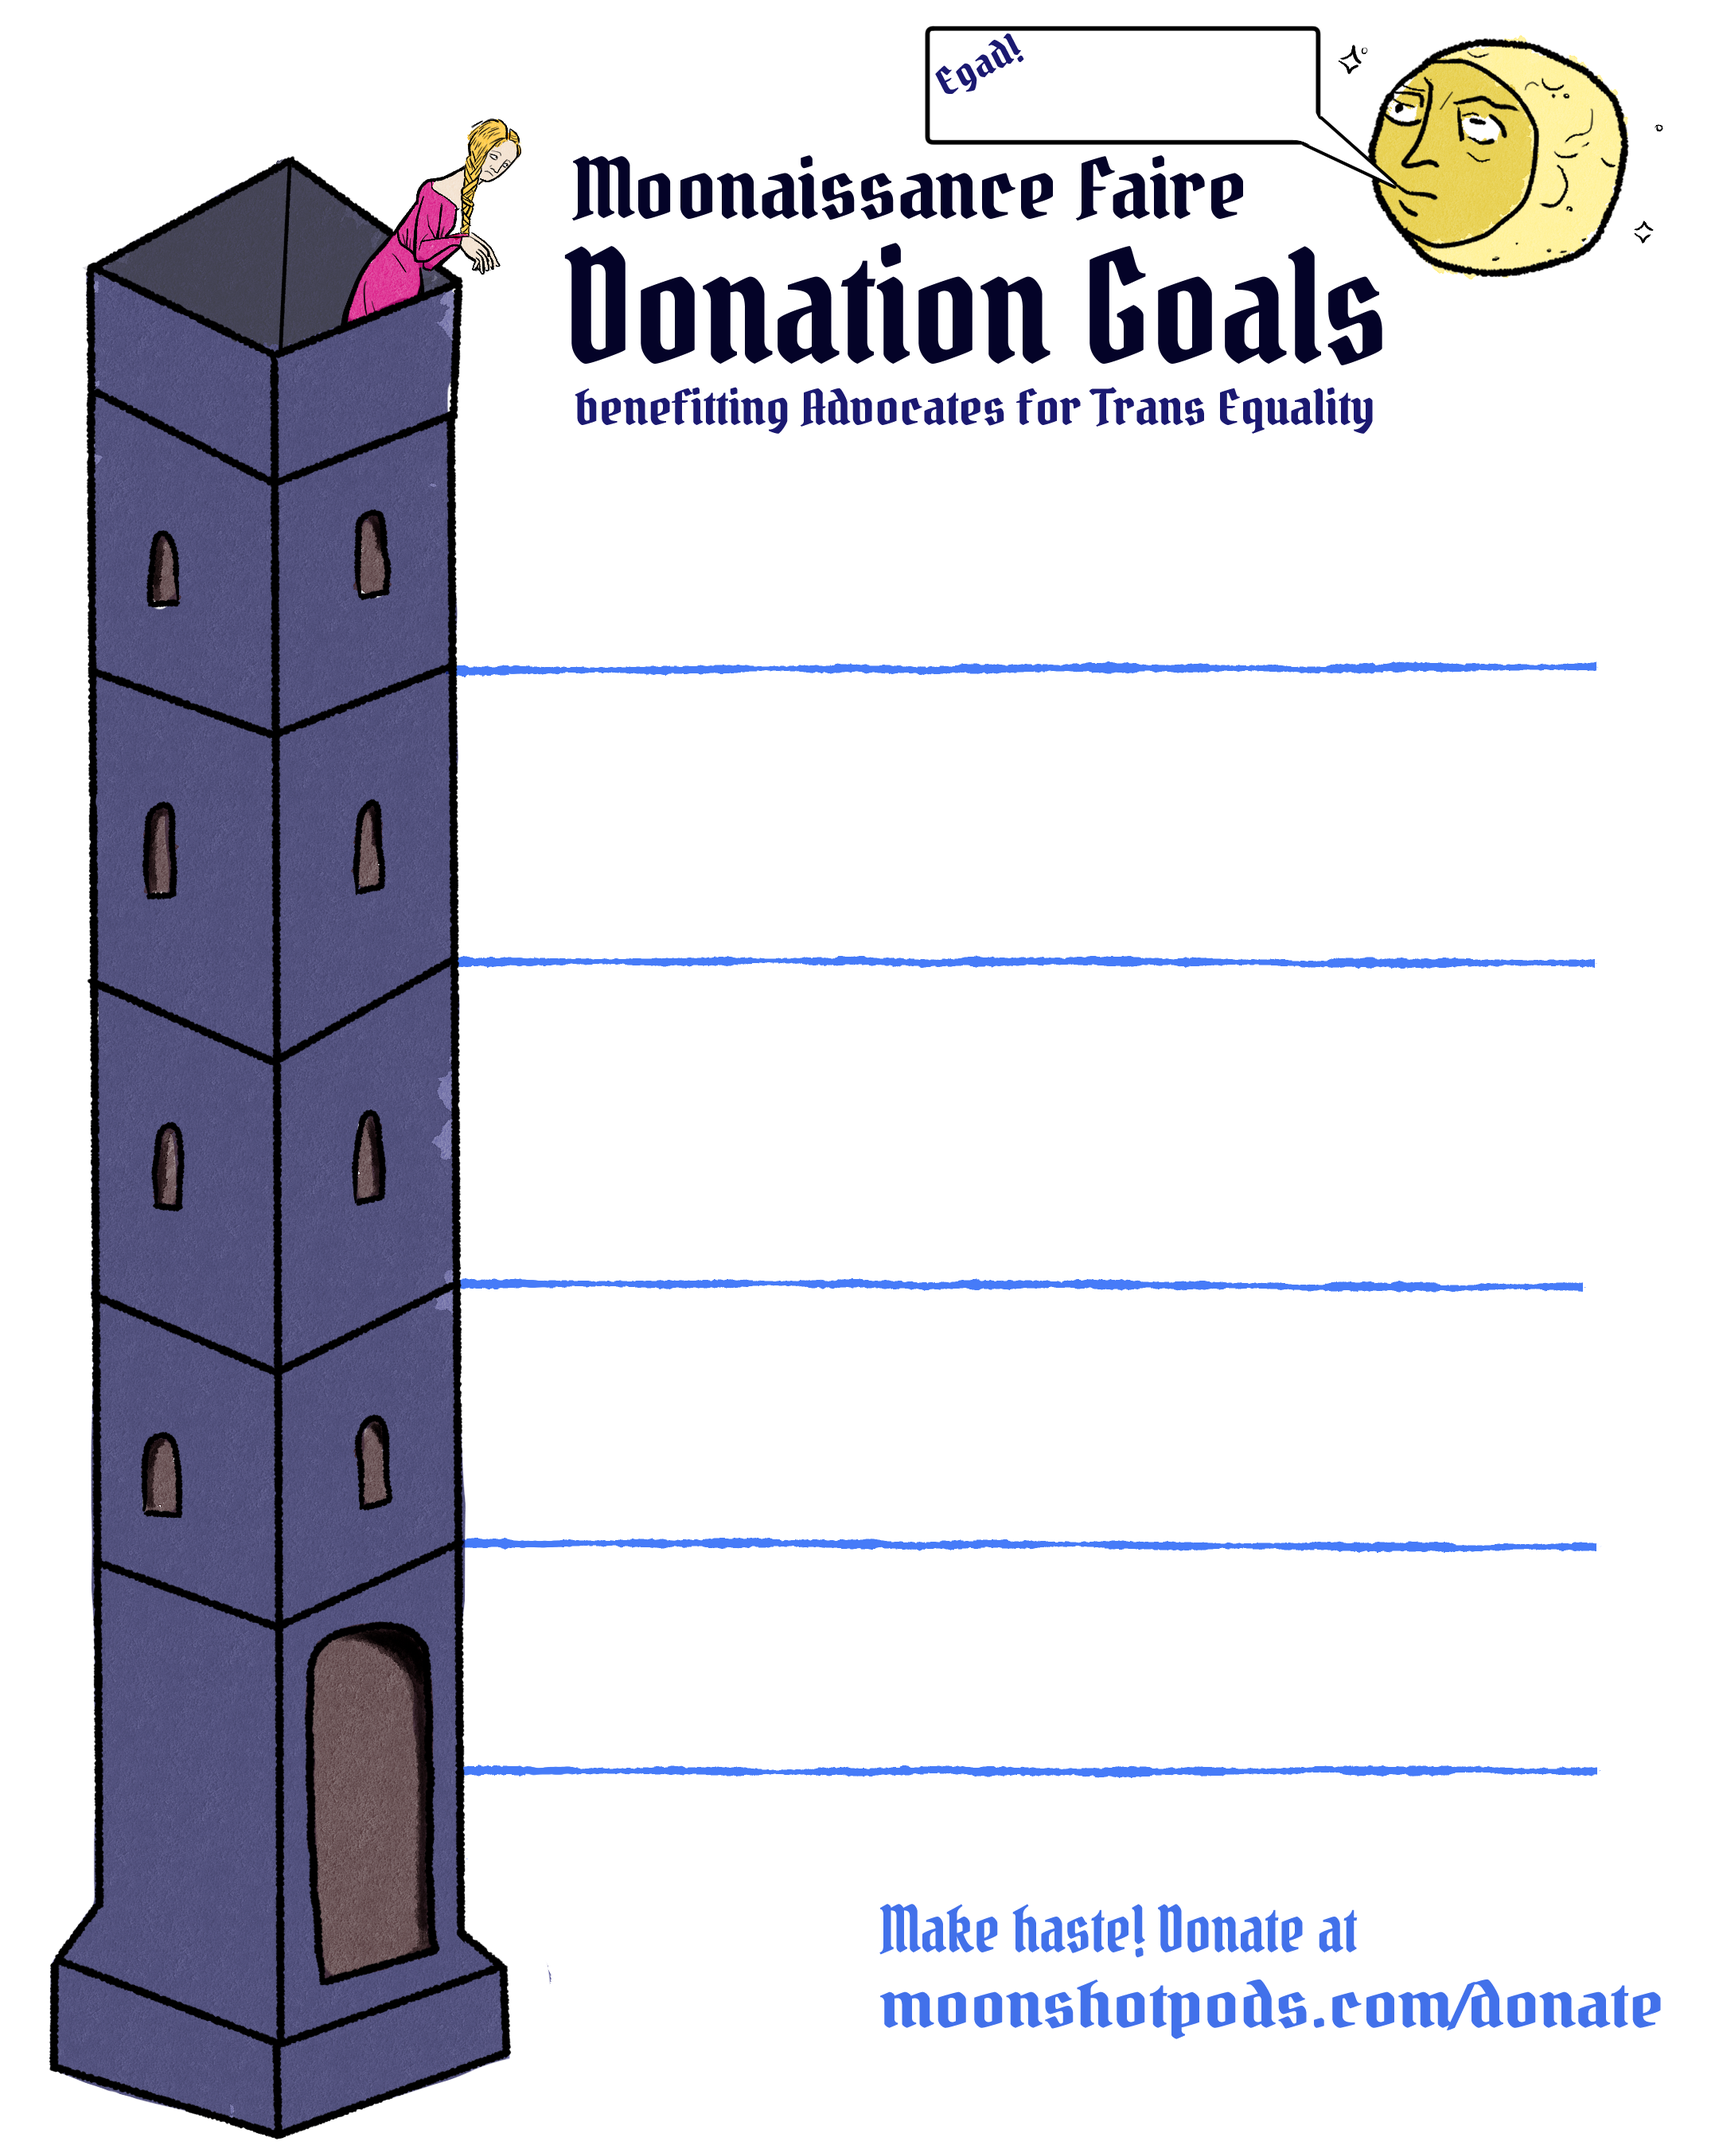
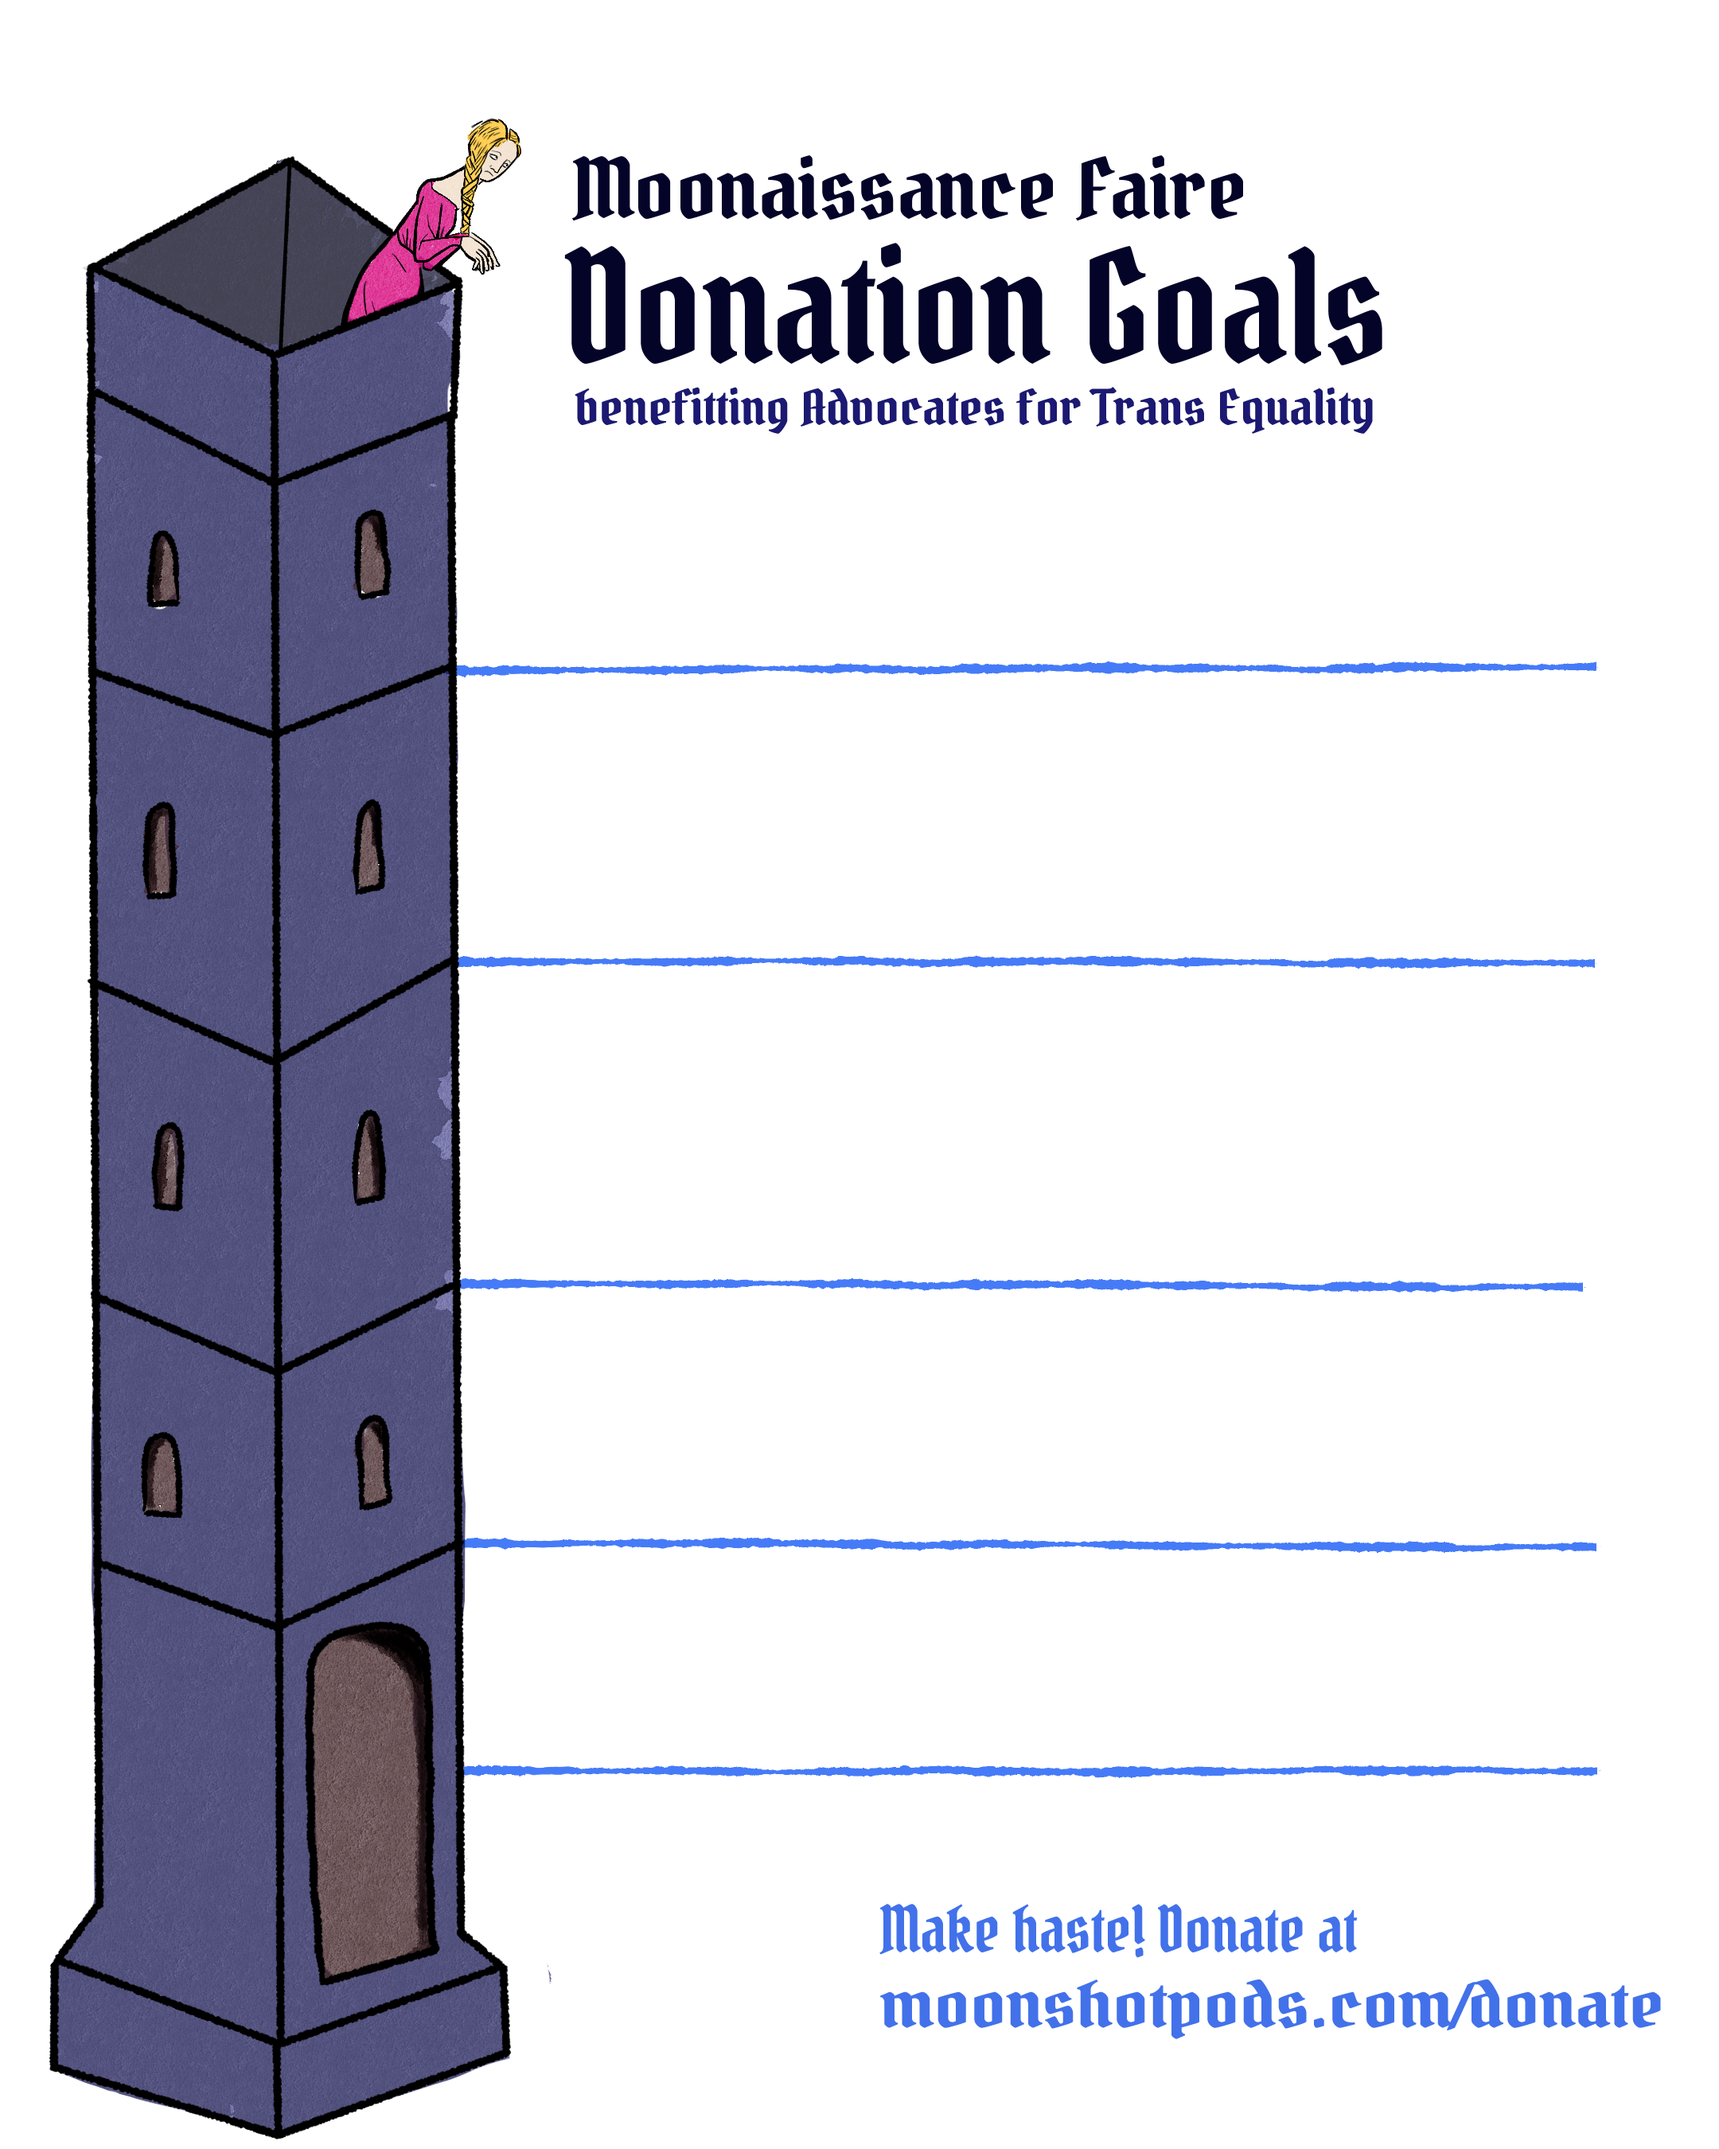
feat: add moon rocking motion

Changed region(s): [[0.7755, 0.0, 0.9616, 0.1556], [0.5273, 0.0, 0.6204, 0.0622], [0.7444, 0.0, 0.7755, 0.0311]]

diff --git a/src/graphics/tracker/Index.tsx b/src/graphics/tracker/Index.tsx
@@ -3,6 +3,7 @@ import Spline from "typescript-cubic-spline";
 import {useIncrementNumSpeed} from "../../types/useIncrementNumSpeed"
 import {useIncrementNumber} from "../../types/useIncrementNumber"
 import {motion, AnimatePresence} from "framer-motion";
+import { useReplicant } from '@nodecg/react-hooks';
 
 import trackerBgNarrow from "../assets/tracker/tracker-bg-narrow.png";
 import trackerBg from "../assets/tracker/tracker-bg.png";
@@ -13,7 +14,7 @@ import trackerDownGoalsNarrow from "../assets/tracker/tracker-down-goals-narrow.
 import trackerUpGoals from "../assets/tracker/tracker-up-goals.png";
 import trackerKnight from "../assets/tracker/tracker-knight.png";
 import tracker6000 from "../assets/tracker/tracker-6000.png";
-import { useReplicant } from '@nodecg/react-hooks';
+import trackerMoon from "../assets/tracker/tracker-moon.png";
 
 function getHairOffset(total: number): string {
     const xs = [0, 1000, 2000, 3000, 4000, 5000, 6000];
@@ -47,14 +48,24 @@ export function Index() {
 
     let bgSource = trackerBg;
     let downSource = trackerDownGoals;
+    let moonX = 0;
+    let moonScale = 1;
     if (narrow == "true") {
         bgSource = trackerBgNarrow;
         downSource = trackerDownGoalsNarrow;
+        moonX = -790;
+        moonScale = 0.6;
     }
 
-	const spring = {
+	const ease = {
         duration: 2,
-	}
+	};
+
+    const wobble = {
+        repeatType: "reverse",
+        repeat: Infinity,
+        duration: 2,
+    };
 
 	return (
 		<div style={{position: "relative",
@@ -63,13 +74,13 @@ export function Index() {
 		}}>
             <img style={{position: "absolute"}} src={bgSource} />
             <AnimatePresence>
-                {(shown < 6000) &&<motion.img style={{position: "absolute"}} src={downSource} key="down-goals" exit={{opacity: 0}} transition={spring}/>}
+                {(shown < 6000) &&<motion.img style={{position: "absolute"}} src={downSource} key="down-goals" exit={{opacity: 0}} transition={ease}/>}
             </AnimatePresence>
             <AnimatePresence>
-                {shown >= 6000 && <motion.img style={{position: "absolute"}} src={trackerUpGoals} initial={{opacity: 0}} animate={{opacity: 1}} transition={spring}/>}
+                {shown >= 6000 && <motion.img style={{position: "absolute"}} src={trackerUpGoals} initial={{opacity: 0}} animate={{opacity: 1}} transition={ease}/>}
             </AnimatePresence>
             <AnimatePresence>
-                {shown >= 5000 && <motion.img style={{position: "absolute"}} src={tracker6000} initial={{opacity: 0}} animate={{opacity: 1}} transition={spring}/>}
+                {shown >= 5000 && <motion.img style={{position: "absolute"}} src={tracker6000} initial={{opacity: 0}} animate={{opacity: 1}} transition={ease}/>}
             </AnimatePresence>
             <img
             style={{
@@ -80,8 +91,27 @@ export function Index() {
                 WebkitMaskPosition: getHairOffset(shown),
             }} src={trackerHair} key={"hair-movement"}/>
             <img style={{position: "absolute", left: `${getKnightPosition(shown)[0]}px`, top: `${getKnightPosition(shown)[1]}px`}} src={trackerKnight}/>
-            {narrow != "true" && <span>
-                    <span style={{
+            {<motion.div style={{
+                position: "absolute",
+                top: 0,
+                left: moonX,
+                transformOrigin: "1885px 204px",
+                WebkitTransformOrigin: "1885px 204px",
+                width: 2160,
+                height: 2700,
+                scale: moonScale,
+            }} animate={{rotate: 5}} initial={{rotate: -2}} transition={{
+                repeatType: "reverse",
+                repeat: Infinity,
+                duration: 4,
+                ease: "easeInOut",
+            }}>
+                <img src={trackerMoon} style={{
+                    position: "absolute",
+                    top: 0,
+                    left: 0,
+                }}/>
+                <span style={{
                     position: "absolute",
                     right: 560,
                     top: 22, 
@@ -89,8 +119,8 @@ export function Index() {
                     fontSize: 124,
                     color: "#1B1971",
                     }}>${Math.floor(shown)}.
-                    </span>
-                    <span style={{
+                </span>
+                <span style={{
                     position: "absolute",
                     right: 510,
                     top: 87, 
@@ -98,9 +128,8 @@ export function Index() {
                     fontSize: 64,
                     color: "#1B1971",
                     }}>{String(Math.round((shown % 1) * 100)).padStart(2, "0")}
-                    </span>
-                    
-                </span>}
+                </span>
+            </motion.div>}
 		</div>
 	);
 }
